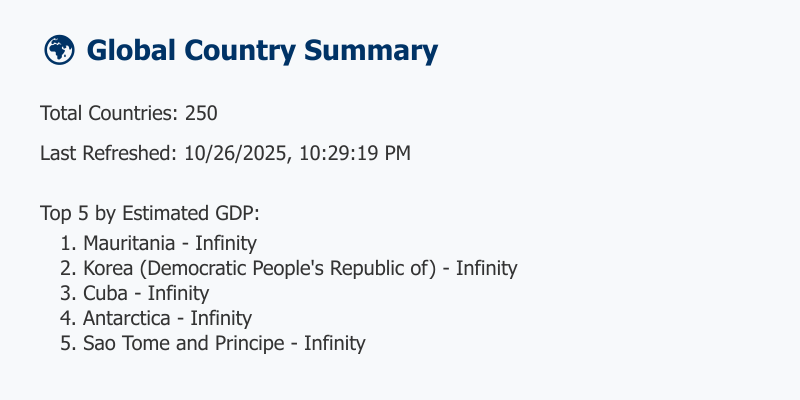
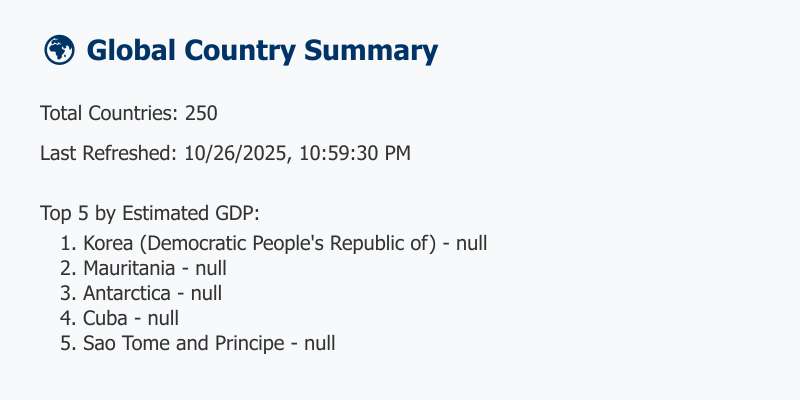
refresh endpoint update

Changed region(s): [[0.0938, 0.57, 0.6562, 0.81], [0.375, 0.84, 0.4688, 0.9], [0.4062, 0.36, 0.4688, 0.42]]

diff --git a/controllers/countries.controller.ts b/controllers/countries.controller.ts
@@ -5,11 +5,7 @@ import fs from "fs";
 import pool from "../config/db";
 import path from "path";
 
-export async function refreshData(
-  req: Request,
-  res: Response,
-  next: NextFunction
-) {
+export async function refreshData(req: Request, res: Response, next: NextFunction) {
   try {
     const data = await fetchData();
 
@@ -37,50 +33,62 @@ export async function refreshData(
       RETURNING *;
     `;
 
-    const createdCountries = [];
     const lastRefreshedAt = new Date().toISOString();
 
-    for (const c of data) {
-      try {
-        const errors: Record<string, string> = {};
-        if (!c.name) errors.name = "is required";
-        if (!c.population) errors.population = "is required";
-        if (!c.currency_code) errors.currency_code = "is required";
+    // ✅ Use Promise.all to run inserts in parallel
+    const createdCountries = await Promise.all(
+      data.map(async (c) => {
+        try {
+          // Validation
+          const errors: Record<string, string> = {};
+          if (!c.name) errors.name = "is required";
+          if (!c.population) errors.population = "is required";
+          if (!c.currency_code) errors.currency_code = "is required";
 
-        if (Object.keys(errors).length > 0) {
-          return res.status(400).json({
-            error: "Validation failed",
-            details: errors,
-          });
+          if (Object.keys(errors).length > 0) {
+            console.warn(`Skipping invalid country: ${c.name || "unknown"}`, errors);
+            return null;
+          }
+
+          // ✅ Compute GDP dynamically
+          const randomMultiplier = Math.floor(Math.random() * (2000 - 1000 + 1)) + 1000;
+          const estimated_gdp = c.exchange_rate
+            ? (c.population * randomMultiplier) / c.exchange_rate
+            : null;
+
+          const result = await pool.query(query, [
+            c.name,
+            c.capital || null,
+            c.region ? c.region.charAt(0).toUpperCase() + c.region.slice(1).toLowerCase() : null,
+            c.population,
+            c.currency_code ? c.currency_code.toUpperCase() : null,
+            c.exchange_rate || null,
+            estimated_gdp,
+            c.flag_url || null,
+            lastRefreshedAt,
+          ]);
+          return result.rows[0];
+        } catch (dbErr) {
+          console.error("Database insert error for:", c.name, dbErr);
+          return null;
         }
-        const result = await pool.query(query, [
-          c.name,
-          c.capital || null,
-          c.region || null,
-          c.population,
-          c.currency_code || null,
-          c.exchange_rate || null,
-          c.estimated_gdp || 0,
-          c.flag_url || null,
-          lastRefreshedAt,
-        ]);
-        createdCountries.push(result.rows[0]);
-      } catch (dbErr) {
-        console.error("Database insert error for:", dbErr);
-      }
-    }
+      })
+    );
 
-    // ✅ Generate summary image after updating DB
+    // ✅ Filter out null results
+    const successfulCountries = createdCountries.filter(Boolean);
+
+    // ✅ Generate summary image after DB updates
     await generateSummaryImageFile(lastRefreshedAt);
 
     return res.status(200).json({
       message: "Countries refreshed successfully",
-      total: createdCountries.length,
+      total: successfulCountries.length,
       last_refreshed_at: lastRefreshedAt,
     });
   } catch (err: any) {
     console.error("Refresh failed:", err);
-    if (err.message.includes("fetch failed")) {
+    if (err.message?.includes("fetch failed")) {
       return res.status(503).json({
         error: "External data source unavailable",
         details: "Could not fetch data from one or more APIs",
